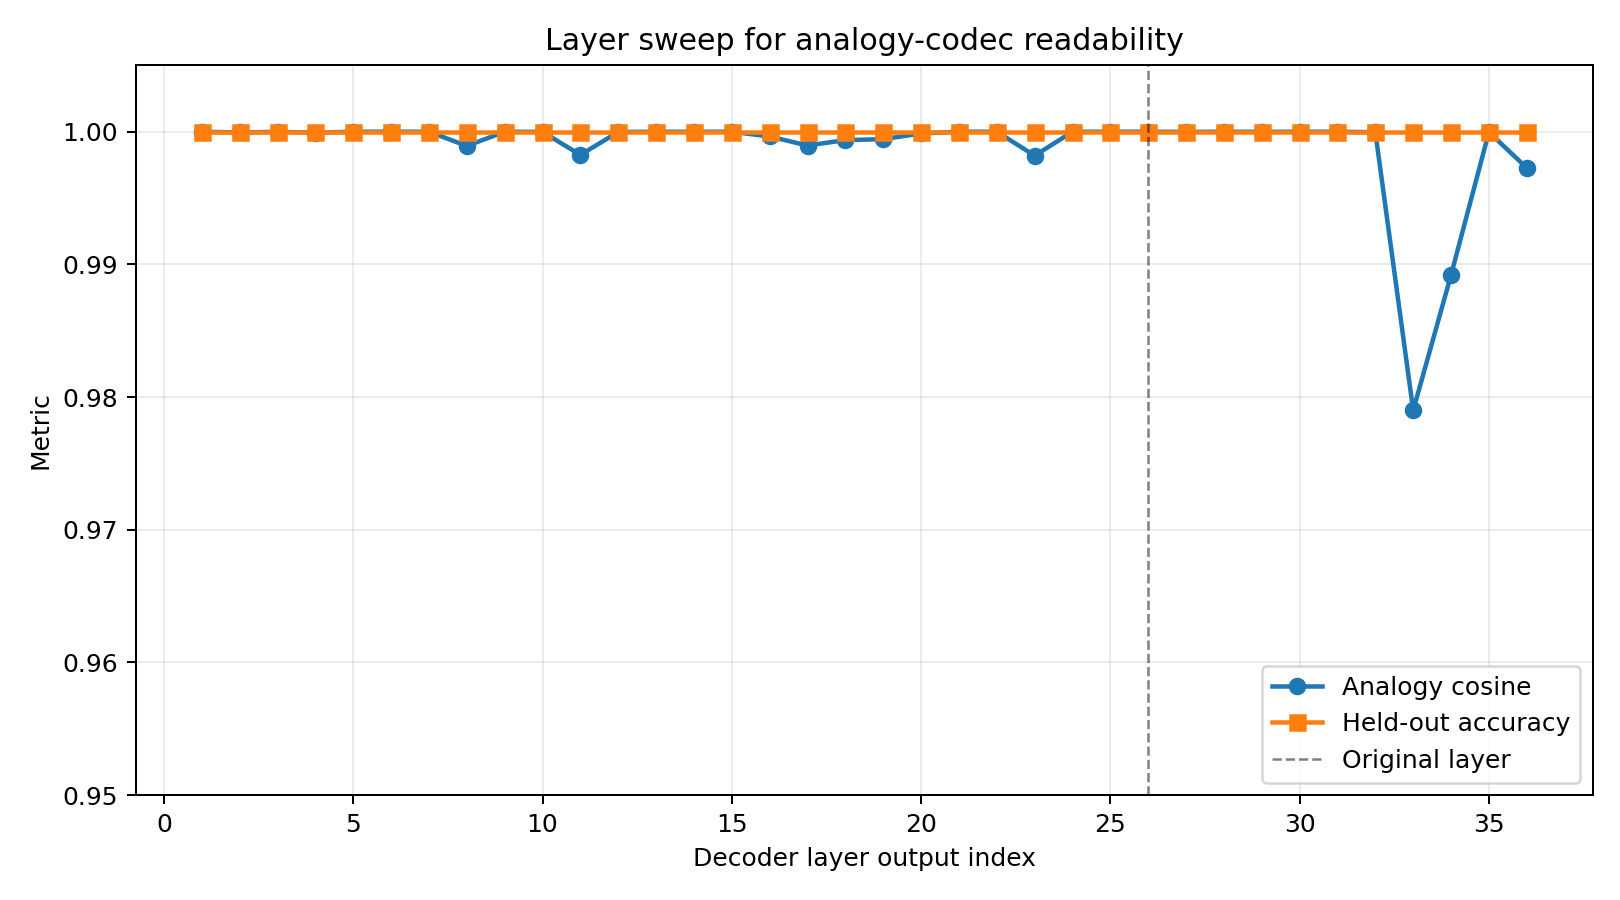
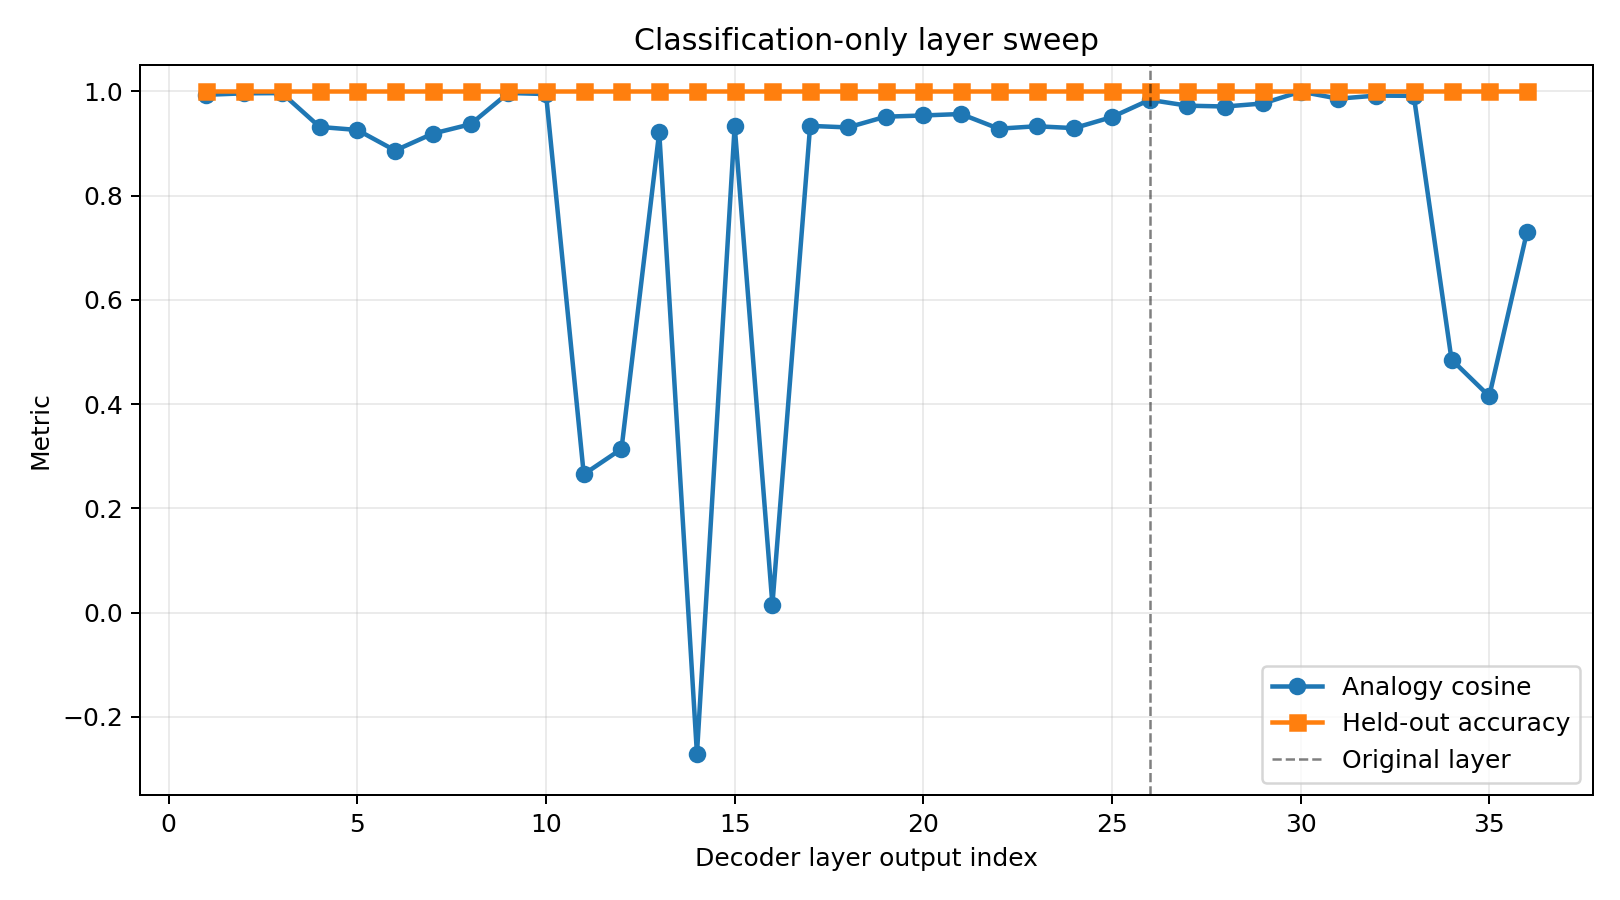
Tighten paper with classification-only layer sweep

diff --git a/docs/qwen-analogy-codec-report.tex b/docs/qwen-analogy-codec-report.tex
@@ -283,33 +283,33 @@ very small supervised interface.
 \subsection{Layer Sweep}
 
 The original run used one hidden layer, selected by an offset of 10 from the
-final layer. To check whether the result depends on a single cherry-picked
-layer, we repeated the extraction across all decoder-layer outputs and trained
-the same codec at each layer. Figure~\ref{fig:layer-sweep} shows the analogy
-cosine and held-out classification accuracy by layer.
+final layer. To check whether the analogy structure is already linearly
+recoverable before the explicit analogy loss, we repeated the extraction across
+all decoder-layer outputs and trained a classification-only codec at each layer.
+Figure~\ref{fig:layer-sweep} shows the analogy cosine and held-out
+classification accuracy by layer.
 
 \begin{figure}[h]
 \centering
 \includegraphics[width=0.92\linewidth]{layer_sweep.pdf}
 \caption{Layer sweep over decoder-layer outputs. The dashed line marks the
-original layer used in the main experiment. With the full loss, the analogy
-geometry is recoverable across most layers; the latest layers show the most
-visible drop in analogy cosine, while nearest-mean classification remains
-saturated.}
+original layer used in the main experiment. The sweep uses classification loss
+only, so analogy geometry is not directly optimized.}
 \label{fig:layer-sweep}
 \end{figure}
 
-The sweep weakens the cherry-picking concern but also shows a limitation of this
-particular metric. With the full objective, the small codec can recover
-near-perfect analogy geometry from nearly every layer, so the layer sweep is not
-a sensitive probe of where the structure first appears. The slight drop in the
-latest layers suggests that the relation is not equally legible everywhere, but
-classification accuracy is saturated throughout.
+This version of the sweep is more informative than the full-loss version:
+classification accuracy is saturated everywhere, but analogy cosine varies
+substantially. Early layers, the original layer, and several late-middle layers
+retain strong analogy geometry under classification-only training. A few middle
+layers and the final layers are much weaker. This suggests that the analogy
+relation is not an artifact of one chosen layer, but it is also not uniformly
+legible throughout the model.
 
 \section{Held-Out Vocabulary}
 
 The four training words leave open an obvious concern: perhaps the codec has
-only memorized four labels. To make a first check, we froze the trained codec
+only memorized four labels. As a first check, we froze the trained codec
 and extracted new hidden states for eight held-out words using the same sentence
 template scheme:
 \[
@@ -448,11 +448,14 @@ This is not a dramatic steering result. The greedy completions were nearly
 unchanged: at \(\alpha=0\) and \(\alpha=0.5\), the model continued with
 ``bit upset, but I tried to be,'' while at \(\alpha=1.0\) it continued with
 ``bit upset, and I wanted to help.'' Still, the log-probability shifts are
-directional. The same 2D shift that moves \(\mu_{\mathrm{king}}\) toward the
-queen side of the codec also increases the probabilities of queen-related and
-female-coded continuations in the downstream distribution. This is modest
-evidence that the codec is not only a readable interface, but a weak writeable
-one.
+directional. The pseudoinverse intervention produces the minimum-norm
+perturbation matching the 2D target, which does not guarantee alignment with
+the model's natural use of those directions. The monotone downstream effect is
+therefore a modest piece of evidence rather than a clean steering result. Still,
+the same 2D shift that moves \(\mu_{\mathrm{king}}\) toward the queen side of
+the codec also increases the probabilities of queen-related and female-coded
+continuations in the downstream distribution. This is modest evidence that the
+codec is not only a readable interface, but a weak writeable one.
 
 \section{Limitations}
 
@@ -485,24 +488,19 @@ rather than cleanly isolated in general \cite{elhage2022}.
 
 \section{Next Steps}
 
-The most natural next step is to scale the vocabulary while keeping the codec
-small. For example, one could include terms such as \emph{prince},
-\emph{princess}, \emph{duke}, \emph{duchess}, \emph{boy}, \emph{girl},
-\emph{father}, and \emph{mother}, plus neutral controls. If the same two axes
-remain useful, the result becomes much more compelling.
+The most natural next step is to broaden the vocabulary in a more systematic
+way. The current held-out set is suggestive, but a stronger test would include
+neutral controls such as \emph{person} and \emph{human}, unrelated nouns, and
+antonyms or role terms that should not be forced into the four training
+quadrants. Cross-lingual tests are also attractive: if the same codec geometry
+transfers to Japanese or other languages, the result would be harder to explain
+as a template-specific English artifact.
 
-Another direction is to test cross-context generalization. The codec could be
-trained on simple templates and evaluated on natural text, or trained on English
-and tested on translated equivalents. This would help distinguish a real
-semantic coordinate system from a template-specific artifact.
-
-A third direction is intervention. If a point can be moved along a learned axis
-in the two-dimensional space, can the corresponding hidden-state intervention
-produce predictable changes in model behavior? That would move the codec from
-being a visualization tool toward being a steering interface. This would connect
-the codec to causal abstraction and model-editing work, where the goal is not
-only to read a representation but to test whether changing it changes behavior
-\cite{geiger2021, meng2022, nanda2023}.
+The intervention result should also be extended. The present experiment only
+tests one gender-direction shift at one token and one layer. A stronger followup
+would test royalty shifts, longer contexts, multiple prompts, and interventions
+at several layers. It would also compare the pseudoinverse perturbation against
+more natural perturbations estimated directly from hidden-state differences.
 
 Another useful comparison point is unsupervised dictionary learning, which aims
 to recover sparse interpretable features from model activations at larger scale
@@ -521,9 +519,11 @@ nearly orthogonal.
 
 The result is small but suggestive. It points toward a practical style of
 mechanistic work where model internals are not only probed, but wrapped in
-compact interfaces with explicit validation gates. That is the larger promise:
-not just looking at activations, but building little semantic instruments that
-make them easier to test, compare, and eventually use.
+compact interfaces with explicit validation gates. The codec is not only
+readable: it generalizes partially to unseen royal and gendered vocabulary, and
+a pseudoinverse intervention produces small but coherent shifts in downstream
+token probabilities. Together these point toward interfaces that can be read,
+tested, and, at least weakly, written to.
 
 \begin{thebibliography}{99}
 

diff --git a/experiments/layer_sweep.py b/experiments/layer_sweep.py
@@ -23,7 +23,13 @@ from qwen_analogy_codec.model_io import (
 )
 
 
-FULL_LOSS_WEIGHTS = {"cls": 1.0, "analogy": 3.0, "perp": 1.0, "orth": 0.1, "sep": 0.5}
+CLASSIFICATION_ONLY_WEIGHTS = {
+    "cls": 1.0,
+    "analogy": 0.0,
+    "perp": 0.0,
+    "orth": 0.0,
+    "sep": 0.0,
+}
 
 
 def make_sentences(words: list[str], samples_per_word: int, seed: int) -> dict[str, list[str]]:
@@ -120,7 +126,7 @@ def main() -> None:
         print(f"Training codec for layer {layer_index}...")
         W_e, b_e = train_with_weights(
             layer_reps[layer_index],
-            weights=FULL_LOSS_WEIGHTS,
+            weights=CLASSIFICATION_ONLY_WEIGHTS,
             seed=args.train_seed,
             steps=args.steps,
             lr=args.lr,
@@ -183,10 +189,10 @@ def main() -> None:
     plt.plot(xs, analogy, marker="o", linewidth=1.8, label="Analogy cosine")
     plt.plot(xs, accuracy, marker="s", linewidth=1.8, label="Held-out accuracy")
     plt.axvline(26, color="black", linestyle="--", linewidth=1.0, alpha=0.5, label="Original layer")
-    plt.ylim(0.95, 1.005)
+    plt.ylim(-0.35, 1.05)
     plt.xlabel("Decoder layer output index")
     plt.ylabel("Metric")
-    plt.title("Layer sweep for analogy-codec readability")
+    plt.title("Classification-only layer sweep")
     plt.grid(True, alpha=0.25)
     plt.legend(loc="lower right")
     plt.tight_layout()